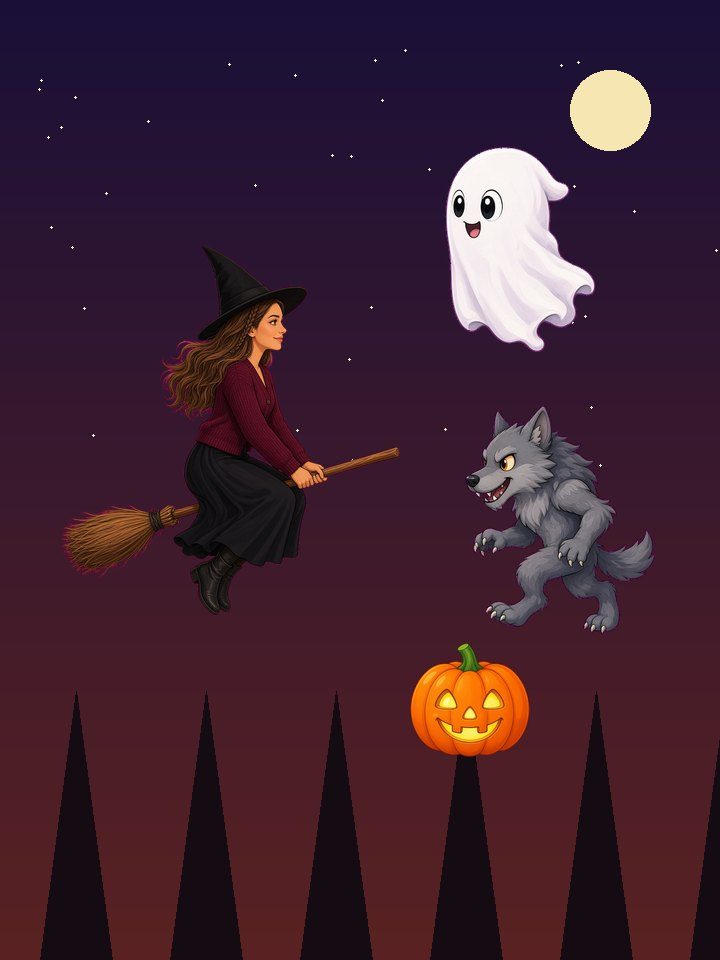
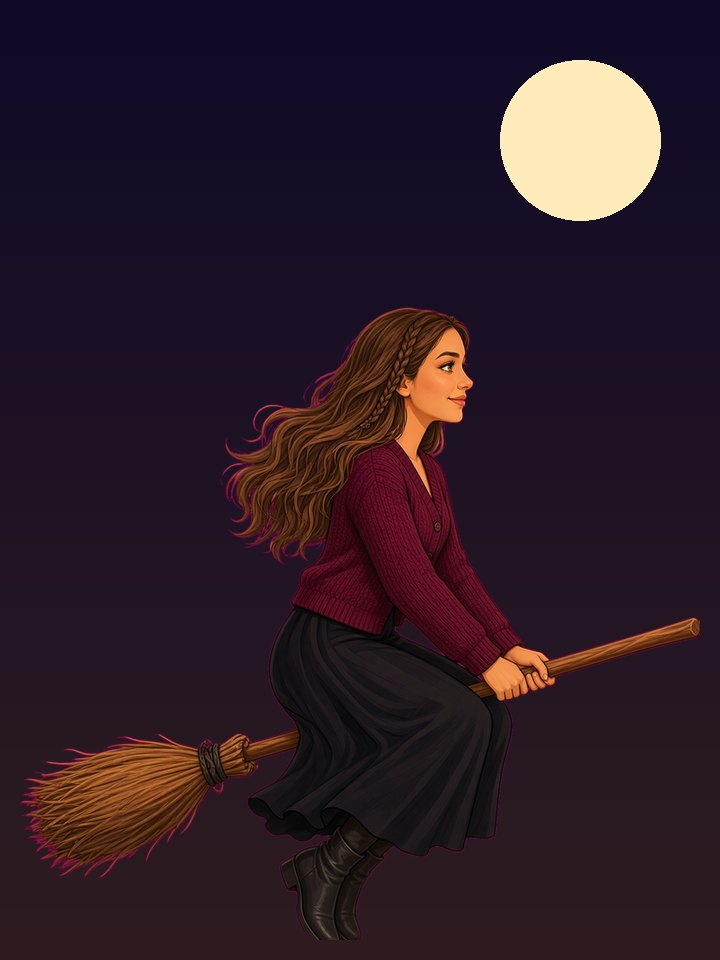
Use hatless Emma across all four games

diff --git a/index.html b/index.html
@@ -4,13 +4,13 @@
   <meta charset="UTF-8" />
   <meta name="viewport" content="width=device-width, initial-scale=1, viewport-fit=cover" />
   <title>Holly Haunt · Spooky Halloween games to play in your browser</title>
-  <meta name="description" content="Three free Halloween games for phone and desktop: find hidden objects in a haunted hall, fly Emma the witch on her broom, and stack pumpkins, ghosts and bats in Holly Stack." />
+  <meta name="description" content="Four free Halloween games for phone and desktop: find hidden objects in Emma's hall, fly with Emma, stack Holly blocks, or ride the cliff road." />
   <meta name="theme-color" content="#07040b" />
   <link rel="canonical" href="https://halloweenfest.github.io/" />
   <meta property="og:type" content="website" />
   <meta property="og:site_name" content="Holly Haunt" />
   <meta property="og:title" content="Holly Haunt · Spooky Halloween games" />
-  <meta property="og:description" content="Find hidden objects, fly Emma the witch on her broom, or stack the haunt. Free to play in your browser." />
+  <meta property="og:description" content="Find hidden objects, fly with Emma, stack the haunt, or ride the cliff. Free to play in your browser." />
   <meta property="og:url" content="https://halloweenfest.github.io/" />
   <meta property="og:image" content="https://halloweenfest.github.io/og.jpg" />
   <meta property="og:image:width" content="1200" />
@@ -44,7 +44,8 @@
       background: linear-gradient(180deg, rgba(10, 5, 14, .97), rgba(14, 7, 18, .9));
       border-bottom-color: rgba(232, 195, 106, .16);
     }
-    body > header .mid .kicker { font-family: var(--display); font-size: 13px; letter-spacing: .22em; }
+    body > header .mid { display: flex; align-items: center; justify-content: center; gap: 8px; }
+    .emma-mark { width: 34px; height: 34px; border-radius: 50%; object-fit: cover; border: 2px solid #e8c36a; flex: none; }
     body > header .mid .sub { display: inline-flex; align-items: center; gap: 6px; justify-content: center; }
     body > header .mid .sub svg { width: 13px; height: 13px; opacity: .8; }
     #progress {
@@ -570,6 +571,7 @@
     .gate-nav { display: flex; align-items: center; justify-content: space-between; gap: 12px; }
     .brand { display: inline-flex; align-items: center; gap: 10px; font: 800 15px/1 var(--display); letter-spacing: .12em; color: var(--cream); text-transform: uppercase; }
     .brand svg { width: 30px; height: 30px; filter: drop-shadow(0 0 10px rgba(255, 140, 40, .6)); }
+    .brand .emma-mark { width: 28px; height: 28px; }
     .hero { position: relative; padding: clamp(40px, 8vh, 96px) 0 clamp(36px, 6vh, 64px); max-width: 680px; }
     .hero .eyebrow {
       display: inline-flex; align-items: center; gap: 8px;
@@ -711,8 +713,11 @@
       </button>
     </div>
     <div class="mid">
+      <img class="emma-mark" src="emma-face.png?v=1" alt="Emma" width="34" height="34" />
+      <div>
       <div class="kicker" id="roomName">GREAT HALL</div>
       <div class="sub" id="sub"><svg viewBox="0 0 24 24" fill="none" stroke="currentColor" stroke-width="2.2" stroke-linecap="round" aria-hidden="true"><circle cx="12" cy="13" r="8"/><path d="M12 9v4l2.5 2M9 2h6"/></svg><span id="clock">0:00</span></div>
+      </div>
     </div>
     <div class="right">
       <div id="score" aria-live="polite">0/12</div>
@@ -879,6 +884,7 @@
     <div class="gate-inner">
       <nav class="gate-nav" aria-label="Site">
         <span class="brand">
+          <img class="emma-mark" src="emma-face.png?v=1" alt="" width="28" height="28" />
           <svg viewBox="0 0 32 32" aria-hidden="true"><path d="M16 7c-1-3 1-5 3-5" stroke="#5c8a3a" stroke-width="2.4" fill="none" stroke-linecap="round"/><ellipse cx="16" cy="18" rx="13" ry="11" fill="#ff8a2a"/><path d="M16 7c-4 0-6 5-6 11s2 11 6 11 6-5 6-11-2-11-6-11z" fill="#ff9d45"/><path d="M9 15l4 3H8zM23 15l-4 3h5zM9 22c3 3 11 3 14 0l-2 3-2-2-3 2-3-2-2 2z" fill="#3a1205"/></svg>
           Holly Haunt
         </span>
@@ -887,7 +893,7 @@
       <section class="hero">
         <span class="eyebrow"><i></i>Halloween Fest · 4 free games</span>
         <h1><span>Holly</span><span>Haunt</span></h1>
-        <p class="lede">Hunt hidden treasures in a candlelit manor, ride Emma's broom through the storm, stack the spookiest blocks, or send her down the cliff road.</p>
+        <p class="lede">Hunt hidden treasures in Emma's candlelit manor, fly the night with her, stack the spookiest blocks, or send her down the cliff road.</p>
         <div class="cta">
           <button id="heroPlay" class="btn btn-primary" type="button"><svg viewBox="0 0 24 24" fill="currentColor" aria-hidden="true"><path d="M7 4.5v15a1 1 0 0 0 1.5.86l12.5-7.5a1 1 0 0 0 0-1.72L8.5 3.64A1 1 0 0 0 7 4.5z"/></svg>Play the Haunted Hall</button>
           <a class="btn btn-ghost" href="#games">See all games</a>
@@ -909,18 +915,18 @@
             <span class="foot"><span class="meta">3 rooms · 12 objects each</span><span class="play"><svg viewBox="0 0 24 24" fill="currentColor" aria-hidden="true"><path d="M7 4.5v15a1 1 0 0 0 1.5.86l12.5-7.5a1 1 0 0 0 0-1.72L8.5 3.64A1 1 0 0 0 7 4.5z"/></svg>Play</span></span>
           </span>
         </button>
-        <a id="playBroom" class="game-card c-emma" href="fly.html?v=17">
+        <a id="playBroom" class="game-card c-emma" href="fly.html?v=18">
           <span class="glare" aria-hidden="true"></span>
-          <span class="art"><img src="tile-emma.jpg?v=7" alt="" width="720" height="960" decoding="async" /></span>
+          <span class="art"><img src="tile-emma.jpg?v=8" alt="Emma" width="720" height="960" decoding="async" /></span>
           <span class="badges"><span class="pill free">Free</span><span class="pill lock" id="flyLock"><svg viewBox="0 0 24 24" fill="none" stroke="currentColor" stroke-width="2.6" stroke-linecap="round" aria-hidden="true"><rect x="5" y="11" width="14" height="10" rx="2"/><path d="M8 11V8a4 4 0 0 1 8 0v3"/></svg>+2 nights</span></span>
           <span class="body">
             <span class="tag">Arcade shooter</span>
             <span class="title" role="heading" aria-level="3">Emma on a Broom</span>
-            <span class="desc">Zap ghosts, bats and wolves with her lightning wand, then face the ugly witch.</span>
+            <span class="desc">Zap ghosts, bats and wolves with her lightning, then face the ugly witch.</span>
             <span class="foot"><span class="meta">3 nights · boss fight</span><span class="play"><svg viewBox="0 0 24 24" fill="currentColor" aria-hidden="true"><path d="M7 4.5v15a1 1 0 0 0 1.5.86l12.5-7.5a1 1 0 0 0 0-1.72L8.5 3.64A1 1 0 0 0 7 4.5z"/></svg>Play</span></span>
           </span>
         </a>
-        <a id="playStack" class="game-card c-stack" href="tetris.html">
+        <a id="playStack" class="game-card c-stack" href="tetris.html?v=2">
           <span class="glare" aria-hidden="true"></span>
           <span class="art"><img src="tile-tetris.jpg?v=1" alt="" width="784" height="1168" decoding="async" /></span>
           <span class="badges"><span class="pill free">Free</span></span>
@@ -931,7 +937,7 @@
             <span class="foot"><span class="meta">Endless · high score</span><span class="play"><svg viewBox="0 0 24 24" fill="currentColor" aria-hidden="true"><path d="M7 4.5v15a1 1 0 0 0 1.5.86l12.5-7.5a1 1 0 0 0 0-1.72L8.5 3.64A1 1 0 0 0 7 4.5z"/></svg>Play</span></span>
           </span>
         </a>
-        <a id="playRush" class="game-card c-stack" href="rush.html?v=3">
+        <a id="playRush" class="game-card c-stack" href="rush.html?v=4">
           <span class="glare" aria-hidden="true"></span>
           <span class="art"><img src="tile-rush.jpg?v=1" alt="" width="720" height="960" decoding="async" /></span>
           <span class="badges"><span class="pill free">Free</span></span>

diff --git a/tetris.html b/tetris.html
@@ -4,7 +4,7 @@
   <meta charset="UTF-8" />
   <meta name="viewport" content="width=device-width, initial-scale=1, viewport-fit=cover" />
   <title>Holly Stack · Halloween falling-blocks puzzle</title>
-  <meta name="description" content="Holly Stack is a free Halloween falling-blocks puzzle. Stack pumpkins, ghosts, bats, skulls, black cats, witches and candy and clear full rows. Plays on phone and desktop." />
+  <meta name="description" content="Holly Stack is a free Halloween falling-blocks puzzle. Stack pumpkins, ghosts, bats, skulls, black cats, Emma and candy and clear full rows." />
   <meta name="theme-color" content="#0b0618" />
   <link rel="canonical" href="https://halloweenfest.github.io/tetris.html" />
   <meta property="og:type" content="website" />
@@ -126,7 +126,8 @@
     .duo { display: grid; grid-template-columns: 1fr 1fr; gap: 10px; }
     .duo b { display: block; margin-top: 6px; font: 700 28px/1 var(--hs-ui); color: #fff3dc; font-variant-numeric: tabular-nums; }
     .duo > div + div { border-left: 1px solid rgba(255, 255, 255, .1); padding-left: 10px; }
-    .bar { margin-top: 12px; height: 8px; border-radius: 99px; background: rgba(0, 0, 0, .4); box-shadow: inset 0 1px 2px rgba(0, 0, 0, .6); overflow: hidden; }
+    .emma-mark { width: 34px; height: 34px; border-radius: 50%; object-fit: cover; border: 2px solid #e8c36a; flex: none; }
+    .topbar .mid { display: flex; align-items: center; gap: 8px; }
     .bar i { display: block; height: 100%; width: 0; border-radius: inherit; background: linear-gradient(90deg, #a46bff, #ff6fb0 60%, #ffb347); box-shadow: 0 0 10px rgba(255, 120, 180, .7); transition: width .4s cubic-bezier(.3, 1.3, .5, 1); }
     .bar-cap { margin-top: 6px; font: 500 11px/1 var(--hs-ui); color: rgba(255, 238, 214, .55); }
     .keys-card ul { list-style: none; margin-top: 10px; display: grid; gap: 7px; }
@@ -431,8 +432,11 @@
       </a>
     </div>
     <div class="mid">
+      <img class="emma-mark" src="emma-face.png?v=1" alt="Emma" width="34" height="34" />
+      <div>
       <div class="kicker">Holly Stack</div>
       <div class="sub" id="levelSub">Level 1</div>
+      </div>
     </div>
     <div class="right">
       <button class="chip-btn icon" id="soundBtn" type="button" aria-pressed="true" aria-label="Sound on" title="Sound (M)">
@@ -519,7 +523,7 @@
       <div class="view v-start">
         <div class="cast" id="cast" aria-hidden="true"></div>
         <h1 class="logo" id="veilTitle"><span class="l1">Holly</span><span class="l2">Stack</span></h1>
-        <p class="tagline">Stack pumpkins, ghosts, bats and cats. Fill a row to clear it before the well fills up.</p>
+        <p class="tagline">Stack pumpkins, ghosts, bats, cats and Emma. Fill a row to clear it before the well fills up.</p>
         <ul class="howto" id="howtoTouch">
           <li><span class="ic"><svg viewBox="0 0 24 24" fill="none" stroke="currentColor" stroke-width="2" stroke-linecap="round" aria-hidden="true"><circle cx="12" cy="12" r="3.2" fill="currentColor"/><circle cx="12" cy="12" r="7" opacity=".55"/><circle cx="12" cy="12" r="10.5" opacity=".25"/></svg></span><span><b>Tap</b>to turn</span></li>
           <li><span class="ic"><svg viewBox="0 0 24 24" fill="none" stroke="currentColor" stroke-width="2.2" stroke-linecap="round" stroke-linejoin="round" aria-hidden="true"><path d="M3 12h18M7 8l-4 4 4 4M17 8l4 4-4 4"/></svg></span><span><b>Drag</b>to move</span></li>
@@ -578,6 +582,8 @@
 "use strict";
 const COLS = 10, ROWS = 20;
 const TYPES = ["pumpkin","ghost","bat","skull","cat","witch","candy"];
+const emmaFace = new Image();
+emmaFace.src = "emma-face.png?v=1";
 /* Each shape lives in an n x n box so it can turn in place without drifting. */
 const SHAPES = {
   pumpkin: { n: 2, cells: [[0,0],[1,0],[0,1],[1,1]] },
@@ -797,26 +803,20 @@ const ICON = {
     c.moveTo(19 * u, 12 * u); c.lineTo(40 * u, 8 * u); c.moveTo(19 * u, 16 * u); c.lineTo(40 * u, 19 * u);
     c.stroke();
   },
-  witch(c, u, b) {
-    const ink = "#0e2a10";
-    c.fillStyle = "rgba(255,110,150,.45)"; ell(c, -24 * u, 21 * u, 6 * u, 3.5 * u); ell(c, 24 * u, 21 * u, 6 * u, 3.5 * u);
-    if (b) shutEyes(c, u, ink, [[-13, 14, 6], [13, 14, 6]], 3.6);
-    else {
-      c.fillStyle = ink; ell(c, -13 * u, 11 * u, 5.5 * u, 7 * u); ell(c, 13 * u, 11 * u, 5.5 * u, 7 * u);
-      c.fillStyle = "#fff"; dot(c, -11 * u, 8 * u, 2 * u); dot(c, 15 * u, 8 * u, 2 * u);
-    }
-    c.strokeStyle = ink; c.lineWidth = 3 * u; c.lineCap = "round";
-    c.beginPath(); c.arc(0, 21 * u, 8 * u, 0.25, Math.PI - 0.25); c.stroke();
-    /* hat */
-    const hg = c.createLinearGradient(0, -50 * u, 0, -4 * u); hg.addColorStop(0, "#7a3ac0"); hg.addColorStop(1, "#2a1046");
-    c.fillStyle = hg;
-    c.beginPath(); c.moveTo(-23 * u, -8 * u); c.quadraticCurveTo(-12 * u, -28 * u, -3 * u, -45 * u);
-    c.quadraticCurveTo(8 * u, -52 * u, 21 * u, -45 * u); c.quadraticCurveTo(9 * u, -42 * u, 6 * u, -33 * u);
-    c.quadraticCurveTo(12 * u, -18 * u, 23 * u, -8 * u); c.closePath(); c.fill();
-    c.fillStyle = "#ffc93a"; rr(c, -21 * u, -18 * u, 42 * u, 7 * u, 2 * u); c.fill();
-    c.strokeStyle = "#5a2a00"; c.lineWidth = 1.8 * u; c.strokeRect(-5 * u, -19.5 * u, 10 * u, 10 * u);
-    const bg = c.createLinearGradient(0, -12 * u, 0, 0); bg.addColorStop(0, "#5a28a0"); bg.addColorStop(1, "#1e0b36");
-    c.fillStyle = bg; ell(c, 0, -6 * u, 42 * u, 7.5 * u);
+  witch(c, u) {
+    const r = 34 * u;
+    c.save();
+    c.beginPath();
+    c.arc(0, 2 * u, r, 0, Math.PI * 2);
+    c.clip();
+    if (emmaFace.complete && emmaFace.naturalWidth) c.drawImage(emmaFace, -r, 2 * u - r, r * 2, r * 2);
+    else { c.fillStyle = "#7a2438"; c.fillRect(-r, 2 * u - r, r * 2, r * 2); }
+    c.restore();
+    c.strokeStyle = "#e8c36a";
+    c.lineWidth = 3 * u;
+    c.beginPath();
+    c.arc(0, 2 * u, r, 0, Math.PI * 2);
+    c.stroke();
   },
   candy(c, u, b) {
     c.fillStyle = "#ff7ab6"; c.strokeStyle = "#a8104e"; c.lineWidth = 2.4 * u; c.lineJoin = "round";
@@ -1755,6 +1755,7 @@ document.addEventListener("visibilitychange", () => { if (document.hidden && run
 if (matchMedia("(hover: hover) and (pointer: fine)").matches) { $("howtoKeys").hidden = false; $("howtoTouch").hidden = true; }
 
 function castRow(el, size, n) {
+  el.replaceChildren();
   TYPES.slice(0, n).forEach((t, i) => {
     const c = document.createElement("canvas");
     const px = Math.round(size * Math.min(2, window.devicePixelRatio || 1));
@@ -1766,6 +1767,7 @@ function castRow(el, size, n) {
 }
 castRow($("cast"), 44, 7);
 castRow($("overArt"), 36, 7);
+emmaFace.onload = () => { castRow($("cast"), 44, 7); castRow($("overArt"), 36, 7); };
 
 addEventListener("resize", resize);
 if (document.fonts && document.fonts.ready) document.fonts.ready.then(resize);

diff --git a/fly.html b/fly.html
@@ -4,13 +4,13 @@
   <meta charset="UTF-8" />
   <meta name="viewport" content="width=device-width, initial-scale=1, viewport-fit=cover" />
   <title>Emma on a Broom · Holly Haunt Halloween game</title>
-  <meta name="description" content="Fly Emma the witch on her broom through a Halloween night. Zap ghosts, bats, wolves and skeletons with her lightning wand, then beat the ugly witch. Free on phone and desktop." />
+  <meta name="description" content="Fly with Emma through a Halloween night. Zap ghosts, bats, wolves and skeletons, then beat the ugly witch. Free on phone and desktop." />
   <meta name="theme-color" content="#0c0710" />
   <link rel="canonical" href="https://halloweenfest.github.io/fly.html" />
   <meta property="og:type" content="website" />
   <meta property="og:site_name" content="Holly Haunt" />
   <meta property="og:title" content="Emma on a Broom · Halloween flying game" />
-  <meta property="og:description" content="Zap ghosts, bats and wolves with Emma's lightning wand, then face the ugly witch." />
+  <meta property="og:description" content="Zap ghosts, bats and wolves with Emma, then face the ugly witch." />
   <meta property="og:url" content="https://halloweenfest.github.io/fly.html" />
   <meta property="og:image" content="https://halloweenfest.github.io/tile-emma.jpg" />
   <meta name="twitter:card" content="summary_large_image" />
@@ -122,7 +122,8 @@
     .nights .pic-tile:hover, .nights .pic-tile:focus-visible { border-color: rgba(255, 214, 130, .8); box-shadow: 0 0 0 1px rgba(255, 214, 130, .4), 0 0 28px rgba(232, 170, 70, .35), 0 12px 26px rgba(0, 0, 0, .45); }
     #night1 { border-color: rgba(255, 214, 130, .55); }
     .keys { font-size: 12px; line-height: 2; color: rgba(255, 243, 220, .6); text-align: center; margin-top: 12px; }
-    @media (hover: none) { .keys { display: none; } }
+    .emma-mark { width: 34px; height: 34px; border-radius: 50%; object-fit: cover; border: 2px solid #e8c36a; flex: none; }
+    .topbar .mid { display: flex; align-items: center; gap: 8px; }
     .stat-row > div { background: rgba(255, 243, 220, .05); }
     #pay .sheet { box-shadow: 0 40px 90px rgba(0, 0, 0, .6), inset 0 1px 0 rgba(255, 255, 255, .14), 0 0 90px rgba(232, 170, 70, .25); }
   </style>
@@ -135,8 +136,11 @@
       </a>
     </div>
     <div class="mid">
+      <img class="emma-mark" src="emma-face.png?v=1" alt="Emma" width="34" height="34" />
+      <div>
       <div class="kicker" id="mode">EMMA'S FLIGHT</div>
-      <div class="sub">Emma on a broom</div>
+      <div class="sub">Night ride</div>
+      </div>
     </div>
     <div class="right">
       <button id="pauseBtn" class="chip-btn icon" type="button" aria-label="Pause" title="Pause (P)">
@@ -206,7 +210,7 @@
           <h2 id="levelsTitle">Pick a night</h2>
           <p id="levelLine">Night 1 is free. Villains chase her. Nights 2 and 3 unlock together.</p>
         </div>
-        <img src="emma.png?v=5" alt="" width="108" height="118" />
+        <img src="emma.png?v=6" alt="Emma" width="108" height="118" />
       </div>
       <div class="nights">
         <button id="night1" class="pic-tile" type="button" style="background-image:url('night1.jpg?v=1')"><span class="label">Night 1<br><span class="tag">FREE</span></span></button>
@@ -272,7 +276,7 @@ const imgs = {}, cache = {};
 Object.keys(SPRITES).forEach((n) => {
   const i = new Image();
   i.onload = () => bake(n);
-  i.src = n + ".png?v=5";
+  i.src = n + ".png?v=6";
   imgs[n] = i;
 });
 function bake(n) {

diff --git a/rush.html b/rush.html
@@ -19,7 +19,7 @@
     #view canvas { width: 100%; height: 100%; display: block; touch-action: none; }
     header { position: fixed; top: 0; left: 0; right: 0; z-index: 2; display: flex; justify-content: space-between; padding: calc(10px + env(safe-area-inset-top)) 12px 0; pointer-events: none; }
     header a { pointer-events: auto; }
-    .back { border: 1px solid #e8c36a55; background: #1b120fcc; color: var(--cream); border-radius: 999px; padding: 8px 12px; font: 800 12px inherit; text-decoration: none; }
+    .emma-mark { width: 34px; height: 34px; border-radius: 50%; object-fit: cover; border: 2px solid #e8c36a; }
     .hud { text-align: right; }
     .hud b, .hud span, #shield { display: inline-block; background: #120c10cc; border: 1px solid #e8c36a44; border-radius: 999px; padding: 6px 12px; }
     .hud b { display: block; margin-left: auto; font-size: 22px; }
@@ -43,7 +43,7 @@
 <body>
   <div id="view"></div>
   <header>
-    <a class="back" href="./">Games</a>
+    <a class="back" href="./"><img class="emma-mark" src="emma-face.png?v=1" alt="Emma" width="34" height="34" style="vertical-align:middle;margin-right:6px" />Games</a>
     <div class="hud"><b id="score">0</b><span id="loot">0 cans · 0 cams</span><div id="shield">CAM SHIELD</div></div>
   </header>
   <div class="dock">
@@ -124,7 +124,6 @@ const steel = new THREE.MeshStandardMaterial({ color: "#8d9098", roughness: 0.35
 const cloth = new THREE.MeshStandardMaterial({ color: "#7a2438", roughness: 0.78, metalness: 0.02 });
 const skin = new THREE.MeshStandardMaterial({ color: "#e0b090", roughness: 0.62 });
 const hair = new THREE.MeshStandardMaterial({ color: "#4a2c1c", roughness: 0.7 });
-const hatMat = new THREE.MeshStandardMaterial({ color: "#1c1418", roughness: 0.55 });
 const wood = new THREE.MeshStandardMaterial({ color: "#3a2618", roughness: 0.9 });
 const canMat = new THREE.MeshPhysicalMaterial({ color: "#1d4ed8", metalness: 0.72, roughness: 0.22, clearcoat: 0.8 });
 const camMat = new THREE.MeshStandardMaterial({ color: "#111", roughness: 0.4, metalness: 0.6 });
@@ -190,18 +189,11 @@ function buildRider() {
   body.add(box(0.12, 0.32, 0.12, cloth, 0.22, 1.12, 0.02));
   body.add(box(0.14, 0.38, 0.14, new THREE.MeshStandardMaterial({ color: "#1a1a1a", roughness: 0.8 }), -0.1, 0.72, 0.08));
   body.add(box(0.14, 0.38, 0.14, new THREE.MeshStandardMaterial({ color: "#1a1a1a", roughness: 0.8 }), 0.1, 0.72, 0.08));
-  const head = sph(0.16, skin, 0, 1.52, 0.02);
-  body.add(head);
-  body.add(sph(0.17, hair, 0, 1.54, 0.06));
-  const hat = new THREE.Group();
-  const brim = shade(new THREE.Mesh(new THREE.CylinderGeometry(0.26, 0.26, 0.03, 16), hatMat));
-  const cone = shade(new THREE.Mesh(new THREE.ConeGeometry(0.16, 0.38, 14), hatMat));
-  cone.position.y = 0.2;
-  hat.add(brim, cone);
-  hat.position.set(0, 1.66, 0);
-  body.add(hat);
+  body.add(sph(0.16, skin, 0, 1.52, 0.02));
+  body.add(sph(0.2, hair, 0, 1.58, 0.08));
+  body.add(box(0.28, 0.34, 0.16, hair, 0, 1.42, 0.1));
   g.add(body);
-  g.userData = { wheels: [rear, front], body, hat };
+  g.userData = { wheels: [rear, front], body };
   return g;
 }
 const rider = buildRider();

diff --git a/broom.html b/broom.html
@@ -4,7 +4,7 @@
   <meta charset="UTF-8" />
   <meta name="viewport" content="width=device-width, initial-scale=1, viewport-fit=cover" />
   <title>Emma on a Broom · Holly Haunt Halloween game</title>
-  <meta name="description" content="Fly Emma the witch on her broom through a Halloween night. Zap ghosts, bats, wolves and skeletons with her lightning wand, then beat the ugly witch. Free on phone and desktop." />
+  <meta name="description" content="Fly with Emma through a Halloween night. Zap ghosts, bats, wolves and skeletons, then beat the ugly witch. Free on phone and desktop." />
   <meta name="theme-color" content="#0c0710" />
   <link rel="canonical" href="https://halloweenfest.github.io/fly.html" />
   <meta property="og:type" content="website" />
@@ -136,7 +136,7 @@
     </div>
     <div class="mid">
       <div class="kicker" id="mode">EMMA'S FLIGHT</div>
-      <div class="sub">Emma on a broom</div>
+      <div class="sub">Night ride</div>
     </div>
     <div class="right">
       <button id="pauseBtn" class="chip-btn icon" type="button" aria-label="Pause" title="Pause (P)">
@@ -206,7 +206,7 @@
           <h2 id="levelsTitle">Pick a night</h2>
           <p id="levelLine">Night 1 is free. Villains chase her. Nights 2 and 3 unlock together.</p>
         </div>
-        <img src="emma.png?v=5" alt="" width="108" height="118" />
+        <img src="emma.png?v=6" alt="" width="108" height="118" />
       </div>
       <div class="nights">
         <button id="night1" class="pic-tile" type="button" style="background-image:url('night1.jpg?v=1')"><span class="label">Night 1<br><span class="tag">FREE</span></span></button>
@@ -272,7 +272,7 @@ const imgs = {}, cache = {};
 Object.keys(SPRITES).forEach((n) => {
   const i = new Image();
   i.onload = () => bake(n);
-  i.src = n + ".png?v=5";
+  i.src = n + ".png?v=6";
   imgs[n] = i;
 });
 function bake(n) {

diff --git a/emma.html b/emma.html
@@ -4,7 +4,7 @@
   <meta charset="UTF-8" />
   <meta name="viewport" content="width=device-width, initial-scale=1, viewport-fit=cover" />
   <title>Emma on a Broom · Holly Haunt Halloween game</title>
-  <meta name="description" content="Fly Emma the witch on her broom through a Halloween night. Zap ghosts, bats, wolves and skeletons with her lightning wand, then beat the ugly witch. Free on phone and desktop." />
+  <meta name="description" content="Fly with Emma through a Halloween night. Zap ghosts, bats, wolves and skeletons, then beat the ugly witch. Free on phone and desktop." />
   <meta name="theme-color" content="#0c0710" />
   <link rel="canonical" href="https://halloweenfest.github.io/fly.html" />
   <meta property="og:type" content="website" />
@@ -136,7 +136,7 @@
     </div>
     <div class="mid">
       <div class="kicker" id="mode">EMMA'S FLIGHT</div>
-      <div class="sub">Emma on a broom</div>
+      <div class="sub">Night ride</div>
     </div>
     <div class="right">
       <button id="pauseBtn" class="chip-btn icon" type="button" aria-label="Pause" title="Pause (P)">
@@ -206,7 +206,7 @@
           <h2 id="levelsTitle">Pick a night</h2>
           <p id="levelLine">Night 1 is free. Villains chase her. Nights 2 and 3 unlock together.</p>
         </div>
-        <img src="emma.png?v=5" alt="" width="108" height="118" />
+        <img src="emma.png?v=6" alt="" width="108" height="118" />
       </div>
       <div class="nights">
         <button id="night1" class="pic-tile" type="button" style="background-image:url('night1.jpg?v=1')"><span class="label">Night 1<br><span class="tag">FREE</span></span></button>
@@ -272,7 +272,7 @@ const imgs = {}, cache = {};
 Object.keys(SPRITES).forEach((n) => {
   const i = new Image();
   i.onload = () => bake(n);
-  i.src = n + ".png?v=5";
+  i.src = n + ".png?v=6";
   imgs[n] = i;
 });
 function bake(n) {
